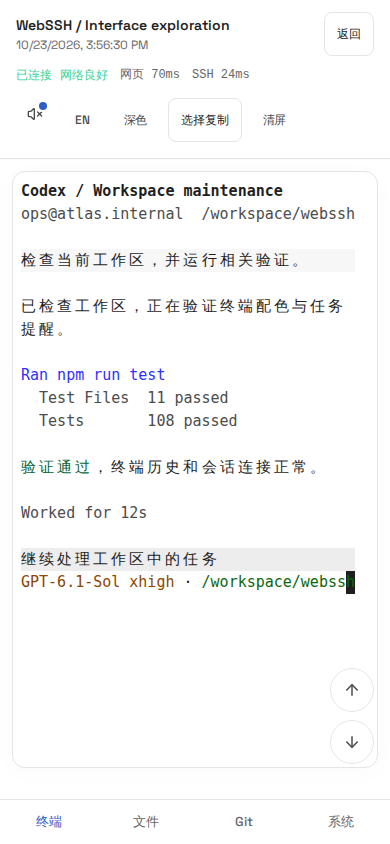
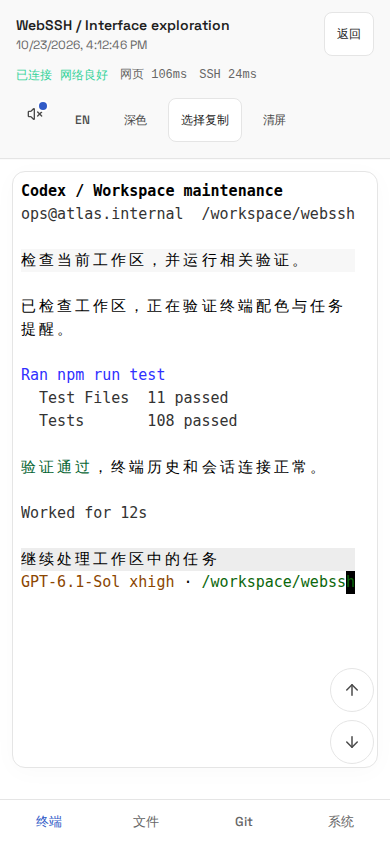
fix: sharpen terminal body text and unify status bar surfaces
Use pure white and black for default terminal text and cursors, and match the terminal toolbar to the resource inspector in both themes. Verify rendered colors, selection readability, and live theme changes on desktop and mobile; refresh documentation and screenshots.

diff --git a/frontend/tests/browser/terminal-colors.pw.ts b/frontend/tests/browser/terminal-colors.pw.ts
@@ -124,7 +124,7 @@ for (const renderer of ["dom", "webgl"]) {
     expect((await page.evaluate(() => window.terminalStateForTest())).lines).toEqual(before.lines);
   });
 
-  test(`${renderer}: light text stays readable on both panels and while selected, preserving ANSI attributes`, async ({ page }, testInfo) => {
+  test(`${renderer}: body text switches between pure white and black while accents and selection stay readable`, async ({ page }, testInfo) => {
     await open(page, renderer, true);
     const lines = ["", "48;5;235;", "48;5;236;"].flatMap(surface => [
       `\x1b[0;${surface}39mNormal body 中文 MMMM\x1b[K`,
@@ -147,6 +147,8 @@ for (const renderer of ["dom", "webgl"]) {
     for (const dark of [true, false, true, false]) {
       await page.evaluate(dark => window.themeTerminalForTest(dark), dark);
       expect((await page.evaluate(() => window.terminalStateForTest())).rowStyles).toEqual(before.rowStyles);
+      const body = await painted(page, [0, 4, 8]);
+      for (const foreground of body.foregrounds) expect(foreground).toEqual(dark ? [255, 255, 255] : [0, 0, 0]);
       if (!dark) await check();
     }
     const box = (await page.locator(".xterm-screen").boundingBox())!;
@@ -354,7 +356,10 @@ for (const mobile of [false, true]) {
       await expect(page.locator(".terminal-frame")).toHaveCSS("background-color", background);
       await expect(page.locator(".xterm-scrollable-element")).toHaveCSS("background-color", background);
       await expect(page.locator(".terminal-shell")).toHaveCSS("background-color", background);
-      if (!mobile) await expect(page.locator(".terminal-inspector")).toHaveCSS("background-color", light ? "rgb(249, 249, 249)" : "rgb(33, 33, 33)");
+      const chrome = light ? "rgb(249, 249, 249)" : "rgb(33, 33, 33)";
+      await expect(page.locator(".terminal-toolbar")).toHaveCSS("background-color", chrome);
+      if (!mobile) await expect(page.locator(".terminal-inspector")).toHaveCSS("background-color", chrome);
+      await expect(page.locator(".xterm-rows span").filter({ hasText: "Normal text and readable links" }).first()).toHaveCSS("color", light ? "rgb(0, 0, 0)" : "rgb(255, 255, 255)");
       await expect(page.locator('meta[name="theme-color"]')).toHaveAttribute("content", light ? "#ffffff" : "#212121");
       await expect.poll(() => page.locator(".xterm-rows > div").first().locator("span").first().evaluate(el => getComputedStyle(el).backgroundColor))
         .toBe(light ? "rgb(237, 237, 237)" : "rgb(48, 48, 48)");
@@ -362,7 +367,7 @@ for (const mobile of [false, true]) {
       await expect(page.getByText(/需要重启程序/)).toHaveCount(0);
       await expect(page.locator(".xterm")).toHaveAttribute("data-identity", "original");
       if (light) {
-        await expect(page.locator(".xterm-rows span").filter({ hasText: "Worked for 35s" }).first()).toHaveCSS("color", "rgb(76, 76, 76)");
+        await expect(page.locator(".xterm-rows span").filter({ hasText: "Worked for 35s" }).first()).toHaveCSS("color", "rgb(51, 51, 51)");
         await page.screenshot({ path: testInfo.outputPath("live-light-theme.png") });
       }
     }

diff --git a/frontend/src/pages/terminal/terminalContrast.test.ts b/frontend/src/pages/terminal/terminalContrast.test.ts
@@ -1,4 +1,5 @@
 import { describe, expect, it } from "vitest";
+import { lightTerminalTheme } from "./terminalUtils";
 import { readableLightForeground, readableTerminalForeground, usesLightTextPolicy, usesTerminalTextPolicy } from "./terminalContrast";
 
 const rgba = (red: number, green: number, blue: number) => ((red << 24) | (green << 16) | (blue << 8) | 255) >>> 0;
@@ -12,10 +13,10 @@ function contrast(a: number, b: number) {
 
 describe("light terminal glyph contrast", () => {
   it("preserves readable body text and gives default dim text a darker secondary color", () => {
-    const body = rgba(31, 31, 31);
+    const body = (parseInt(lightTerminalTheme.foreground.slice(1), 16) * 256 + 255) >>> 0;
     expect(readableLightForeground(0xffffffff, body, false).rgba).toBe(body);
     const secondary = readableLightForeground(0xffffffff, body, true);
-    expect(secondary.css).toBe("#4c4c4c");
+    expect(secondary.css).toBe("#333333");
     expect(contrast(0xffffffff, secondary.rgba)).toBeGreaterThanOrEqual(4.5);
     expect(contrast(0xffffffff, secondary.rgba)).toBeLessThan(contrast(0xffffffff, body));
   });

diff --git a/frontend/src/design.css b/frontend/src/design.css
@@ -176,9 +176,10 @@ select:focus-visible, textarea:focus-visible { outline: 2px solid rgb(var(--bran
 .workspace-empty > p:nth-child(2) { font-size: 20px; font-weight: 500; letter-spacing: -.04em; }
 .workspace-footer { font-family: var(--font-detail); font-size: 9px; height: 43px; background: rgb(var(--canvas)); }
 
-/* Dark terminal and inspector exchange their neutral surface depths. */
+/* Keep the terminal deeper than the shared toolbar and inspector surfaces. */
 [data-theme="dark"] .terminal-shell { background-color: #171717; }
-[data-theme="dark"] .terminal-inspector { background-color: #212121; }
+.terminal-toolbar, .terminal-inspector { background-color: rgb(var(--chrome)); }
+[data-theme="dark"] .terminal-toolbar, [data-theme="dark"] .terminal-inspector { background-color: #212121; }
 .terminal-toolbar { box-shadow: 0 1px 0 rgb(var(--ink) / .02); }
 .terminal-shell .terminal-frame { border-radius: 13px; box-shadow: 0 4px 25px rgb(0 0 0 / .025); }
 .terminal-shell .ui-button { border-radius: 8px; }

diff --git a/frontend/src/pages/terminal/terminalUtils.ts b/frontend/src/pages/terminal/terminalUtils.ts
@@ -83,8 +83,8 @@ export function buildExtendedAnsiPalette(overrides: Record<number, string> = {})
 
 export const darkTerminalTheme = {
   background: "#171717",
-  foreground: "#ececec",
-  cursor: "#ececec",
+  foreground: "#ffffff",
+  cursor: "#ffffff",
   cursorAccent: "#171717",
   selectionBackground: "#454b55",
   black: "#303030",
@@ -112,8 +112,8 @@ export const darkTerminalTheme = {
 
 export const lightTerminalTheme = {
   background: "#ffffff",
-  foreground: "#1f1f1f",
-  cursor: "#1f1f1f",
+  foreground: "#000000",
+  cursor: "#000000",
   cursorAccent: "#ffffff",
   selectionBackground: "#dce7f7",
   black: "#1f1f1f",

diff --git a/docs/ARCHITECTURE.en.md b/docs/ARCHITECTURE.en.md
@@ -43,7 +43,7 @@ flowchart LR
 
 `gatewayScene.ts` renders an original metallic ring with WebGL shaders, without external models or image services. Local WebP fallbacks exported from the same shader total about 72 KiB across both themes. Space Grotesk and IBM Plex Mono are self-hosted with their licenses. `SignalArtwork` appears only on sign-in and the workspace overview. Pointer input drives a finite spring animation without per-frame React state updates. Hardware shader updates are limited to about 24 per second and an 840-pixel render size. Software WebGL redraws only on initial display, size or theme changes; pointer motion uses CSS transforms. Animation stops when settled, offscreen, hidden, or unmounted. Cleanup releases graphics resources and supports React StrictMode. Unavailable or lost WebGL contexts fall back to local, theme-aware images. Reduced-motion preferences disable movement.
 
-The dark terminal uses #171717 with a #212121 inspector; the light terminal remains #ffffff. Its frame reads the terminal palette directly to prevent edge seams. TUI panel slots 235/236 use lighter neutral gray layers: #2a2a2a/#303030 in dark mode and #f7f7f7/#ededed in light mode. ANSI status colors retain their meaning; scrolling, selection, output acknowledgements, and synchronization logic are preserved. Terminal pages do not mount the decorative scene. Browser regressions cover both themes, mobile and English layouts, forms, files, notifications, card keyboard actions, motion settling, and graphics fallback.
+The dark terminal uses #171717 with a shared #212121 toolbar and inspector (both #f9f9f9 in light mode); the light terminal remains #ffffff. Its frame reads the terminal palette directly to prevent edge seams. TUI panel slots 235/236 use lighter neutral gray layers: #2a2a2a/#303030 in dark mode and #f7f7f7/#ededed in light mode. ANSI status colors retain their meaning; scrolling, selection, output acknowledgements, and synchronization logic are preserved. Terminal pages do not mount the decorative scene. Browser regressions cover both themes, mobile and English layouts, forms, files, notifications, card keyboard actions, motion settling, and graphics fallback.
 
 ### 3.2 Session Project Directory and Git Status
 
@@ -95,7 +95,7 @@ Scrollback defaults to 10,000 lines. Settings offer 5,000 / 10,000 / 50,000 / 10
 
 Rendering prefers hardware WebGL to batch dense colored glyphs, with Canvas fallback for software WebGL, browser restrictions, or context loss, and DOM fallback when Canvas is unavailable. TUI selection keeps one remote wheel request in flight and continues after verifying the viewport movement. Continuous output cannot indefinitely postpone this check, and pointer movement within the same cell does not redraw the selection. Remote scrolling remains subject to SSH round-trip time and TUI repaint speed.
 
-Terminal themes are applied locally without restarting the TUI. Both palettes map panel slots 235/236. Dark mode targets 4.5 contrast for ordinary text and 3 for dim text after blending at 72% opacity. Light mode targets 7 for ordinary text; dim text is first blended with its actual background at 80% opacity, then corrected to a final contrast of at least 4.5. Light surfaces also reserve 4.5 contrast under the independent selection overlay. Default dim text on white becomes approximately #4c4c4c. Basic ANSI, indexed and RGB accents gain saturation, then adjust lightness at a fixed hue and saturation to meet contrast targets. Neutral body text remains neutral. Backgrounds that cannot meet the target use the best achievable contrast. Default, indexed and RGB foregrounds, inverse/bold attributes and actual cell backgrounds are supported; non-text graphics retain upstream behavior. Each WebGL glyph atlas owns its contrast caches so idle warmup from an old theme cannot contaminate the new palette.
+Terminal themes are applied locally without restarting the TUI. Default body text and the cursor use pure white #ffffff in dark mode and pure black #000000 in light mode; colored code and dim information retain their distinction. Both palettes map panel slots 235/236. Dark mode targets 4.5 contrast for ordinary text and 3 for dim text after blending at 72% opacity. Light mode targets 7 for ordinary text; dim text is first blended with its actual background at 80% opacity, then corrected to a final contrast of at least 4.5. Light surfaces also reserve 4.5 contrast under the independent selection overlay. Default dim text on white becomes approximately #333333. Basic ANSI, indexed and RGB accents gain saturation, then adjust lightness at a fixed hue and saturation to meet contrast targets. Neutral body text remains neutral. Backgrounds that cannot meet the target use the best achievable contrast. Default, indexed and RGB foregrounds, inverse/bold attributes and actual cell backgrounds are supported; non-text graphics retain upstream behavior. Each WebGL glyph atlas owns its contrast caches so idle warmup from an old theme cannot contaminate the new palette.
 
 DOM and WebGL share `terminalContrast.ts` at final glyph color resolution and cache the result. ANSI attributes, including dim, remain intact in output and history. During development startup and production builds, a Vite plugin generates an in-memory module from pinned xterm 6.0.0 / WebGL 0.19.0 sources. It does not modify node_modules or require committed generated vendor bundles. Package versions, replacement locations and the number of patched files are checked; incompatible dependency changes fail the build. Theme/contrast changes clear both normal and dim contrast caches. Selection color also participates in WebGL atlas configuration comparisons so existing content updates correctly.
 

diff --git a/docs/ARCHITECTURE.md b/docs/ARCHITECTURE.md
@@ -49,7 +49,7 @@ flowchart LR
 
 `gatewayScene.ts` 使用 WebGL 着色器生成原创金属环形图形，不依赖外部模型或图片服务；本地 WebP 备选图由同一着色器导出，深浅两张共约 72 KiB。Space Grotesk 与 IBM Plex Mono 本地托管并保留许可。`SignalArtwork` 仅出现在登录和工作空间概览，指针推动有限时长的弹簧运动，不逐帧更新 React 状态。硬件渲染时着色器更新最多约 24 次/秒，绘制尺寸最多 840 像素；软件 WebGL 仅在初始显示、尺寸或主题变化时重绘，指针运动由 CSS 变换完成。静止、移出视口、隐藏标签页或卸载后停止动画；卸载释放图形资源并兼容 React StrictMode。WebGL 不可用或上下文丢失时显示随主题变化的本地图片。减少动态效果偏好关闭运动。
 
-终端深色底为 #171717，右侧监测栏为 #212121；浅色终端仍为 #ffffff。外框直接读取终端主题，避免边缘色差。TUI 面板 235/236 在深色下为 #2a2a2a/#303030，浅色下为 #f7f7f7/#ededed，使用中性灰层次区分输入与历史面板。ANSI 状态色保留语义，滚动、拖选、输出确认和同步逻辑保持原样。终端页面不挂载装饰图形。浏览器回归覆盖深浅色、手机与英文布局、表单、文件、提醒、卡片键盘交互、动效静止与图形回退。
+终端深色底为 #171717，顶部状态栏与右侧监测栏均为 #212121，浅色下两者均为 #f9f9f9；浅色终端仍为 #ffffff。外框直接读取终端主题，避免边缘色差。TUI 面板 235/236 在深色下为 #2a2a2a/#303030，浅色下为 #f7f7f7/#ededed，使用中性灰层次区分输入与历史面板。ANSI 状态色保留语义，滚动、拖选、输出确认和同步逻辑保持原样。终端页面不挂载装饰图形。浏览器回归覆盖深浅色、手机与英文布局、表单、文件、提醒、卡片键盘交互、动效静止与图形回退。
 
 ### 3.2 会话项目目录与 Git 状态
 
@@ -117,7 +117,7 @@ TUI 高亮使用固定的 3 个背景矩形，独立于 xterm 的输入清除选
 
 渲染器优先使用硬件 WebGL，将密集彩色字符合批绘制；检测到软件 WebGL、浏览器限制或图形上下文丢失时回退到 DOM。滚动直接更新终端视口，交由内核按帧合并绘制，不再额外覆盖整屏文字动画或叠加固定时长的滚动惯性。持续输出不会无限重置画面检查计时，同一单元格内移动也不会重复刷新选区。
 
-终端主题由当前浏览器本地呈现，不要求重启 TUI。两种主题都映射 235/236 面板色。深色主题普通文字目标对比度为 4.5，dim 文字按 72% 不透明度混合后至少达到 3；浅色主题对普通文字使用 7 的目标，将 dim 文字按 80% 不透明度与实际背景混合后，保证最终颜色至少达到 4.5，并为浅色面板上的独立选区高亮保留 4.5 的对比度。默认淡化文字在白底上显示为约 #4c4c4c；普通 ANSI、256 色和 RGB 彩色文字统一增强饱和度，再保持色相与饱和度调整亮度以满足对比度；中性正文不染色。背景无法达到目标时取可实现的最高对比度。该规则同时覆盖默认色、索引色和 RGB 色，处理单元格的反色、加粗及实际背景；非文字图形沿用内核行为。WebGL 字形图集独立保存对比度缓存，避免旧主题的空闲预绘制污染新主题配色。
+终端主题由当前浏览器本地呈现，不要求重启 TUI。默认正文和光标在深色下为纯白 #ffffff，浅色下为纯黑 #000000；彩色代码与 dim 信息保留层次。两种主题都映射 235/236 面板色。深色主题普通文字目标对比度为 4.5，dim 文字按 72% 不透明度混合后至少达到 3；浅色主题对普通文字使用 7 的目标，将 dim 文字按 80% 不透明度与实际背景混合后，保证最终颜色至少达到 4.5，并为浅色面板上的独立选区高亮保留 4.5 的对比度。默认淡化文字在白底上显示为约 #333333；普通 ANSI、256 色和 RGB 彩色文字统一增强饱和度，再保持色相与饱和度调整亮度以满足对比度；中性正文不染色。背景无法达到目标时取可实现的最高对比度。该规则同时覆盖默认色、索引色和 RGB 色，处理单元格的反色、加粗及实际背景；非文字图形沿用内核行为。WebGL 字形图集独立保存对比度缓存，避免旧主题的空闲预绘制污染新主题配色。
 
 DOM 与 WebGL 在最终文字颜色解析时共用 `terminalContrast.ts`，缓存结果以复用计算；输出和历史中的 dim 等 ANSI 属性保持原样。Vite 在开发启动与生产构建时，从固定版本的 xterm 6.0.0 / WebGL 0.19.0 源码生成包含补丁的内存模块，不修改 node_modules 或提交生成的依赖包。补丁校验版本、替换位置和涉及的源码数量，依赖发生不兼容变化时构建失败。主题或对比度变化会清空普通、dim 两类颜色缓存；选区颜色也参与 WebGL 图集配置比较，确保切换后重绘已有内容。
 

diff --git a/README.en.md b/README.en.md
@@ -55,7 +55,7 @@ A dedicated mobile layout provides touch-friendly interactions for terminal work
 - Pasted image cache: Settings provides per-connection image lists, disk usage, expiration times, previews, downloads, deletion, and manual expiry cleanup. Retention defaults to 3 days with a 7-day option. A background worker cleans expired images at startup and hourly, even with no open terminal, and retries offline targets on subsequent checks. Older `/tmp/webssh-clipboard.*` images are supported; only cache images owned by the remote account are removed. Connections sharing an SSH account share its cache. Download images you want to keep; removing a saved connection prevents further Gateway cleanup through that connection.
 - Security baseline: JWT auth, password policy, lockout policy, request-id logging
 
-Directory and Git synchronization require Python 3.8+ on the SSH target; Git status also requires Git. Linux foreground-process metadata identifies the session directory, with tmux directory information available for enhanced sessions. Unresolved directories are reported as unavailable; manual file browsing remains available. Line totals are tracked working-tree changes against HEAD, with untracked and binary files labeled separately. Ahead/behind uses locally stored remote refs, without contacting the remote.
+Directory and Git synchronization require Python 3.8+ on the SSH target; Git status also requires Git. Linux foreground-process metadata identifies the session directory, with tmux directory information available for enhanced sessions. Unresolved directories are reported as unavailable; the file browser waits for synchronization instead of opening the system root. Line totals are tracked working-tree changes against HEAD, with untracked and binary files labeled separately. Ahead/behind uses locally stored remote refs, without contacting the remote.
 
 ## Tech Stack
 

diff --git a/README.md b/README.md
@@ -55,7 +55,7 @@ WebSSH Gateway 是一个面向运维、开发和 AI CLI 工作流的浏览器 SS
 - 粘贴图片缓存：系统设置中可按 SSH 连接查看临时图片、占用空间和到期时间，支持预览、下载、删除及手动清理过期图片。默认保留 3 天，可切换为 7 天；后台启动时及每小时清理过期图片，终端关闭后仍生效，离线目标会在后续检查时重试。兼容旧版 `/tmp/webssh-clipboard.*` 图片，仅删除当前远程账号拥有的缓存图片；同一 SSH 账号共享缓存，需要长期保留的图片请先下载。删除保存的连接后，网关将无法继续为该连接执行清理。
 - 基础安全能力：JWT 鉴权、密码复杂度校验、登录失败锁定、请求追踪 ID 日志。
 
-目录与 Git 同步要求目标服务器提供 Python 3.8+；Git 状态还需要安装 Git。Linux 下读取当前会话的前台进程目录，增强会话也可使用 tmux 的目录信息。无法可靠识别目录时提示不可用，文件面板仍可手动浏览。增删行数按已跟踪文件相对 HEAD 的净变化计算，未跟踪与二进制文件另行标注；领先／落后使用本地保存的远端引用，不代表刚从远端拉取的状态。
+目录与 Git 同步要求目标服务器提供 Python 3.8+；Git 状态还需要安装 Git。Linux 下读取当前会话的前台进程目录，增强会话也可使用 tmux 的目录信息。无法可靠识别目录时提示不可用，文件面板等待同步，不退回系统根目录。增删行数按已跟踪文件相对 HEAD 的净变化计算，未跟踪与二进制文件另行标注；领先／落后使用本地保存的远端引用，不代表刚从远端拉取的状态。
 
 ## 技术栈
 
